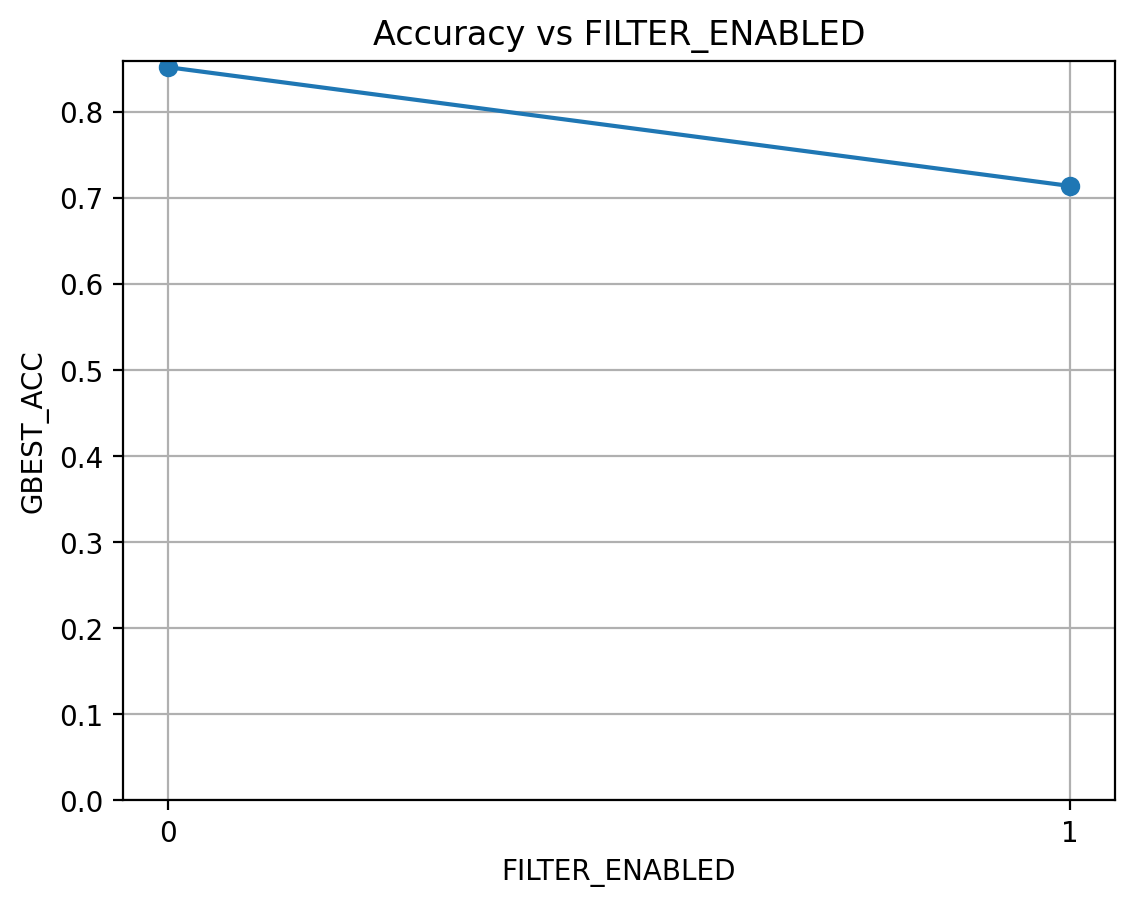
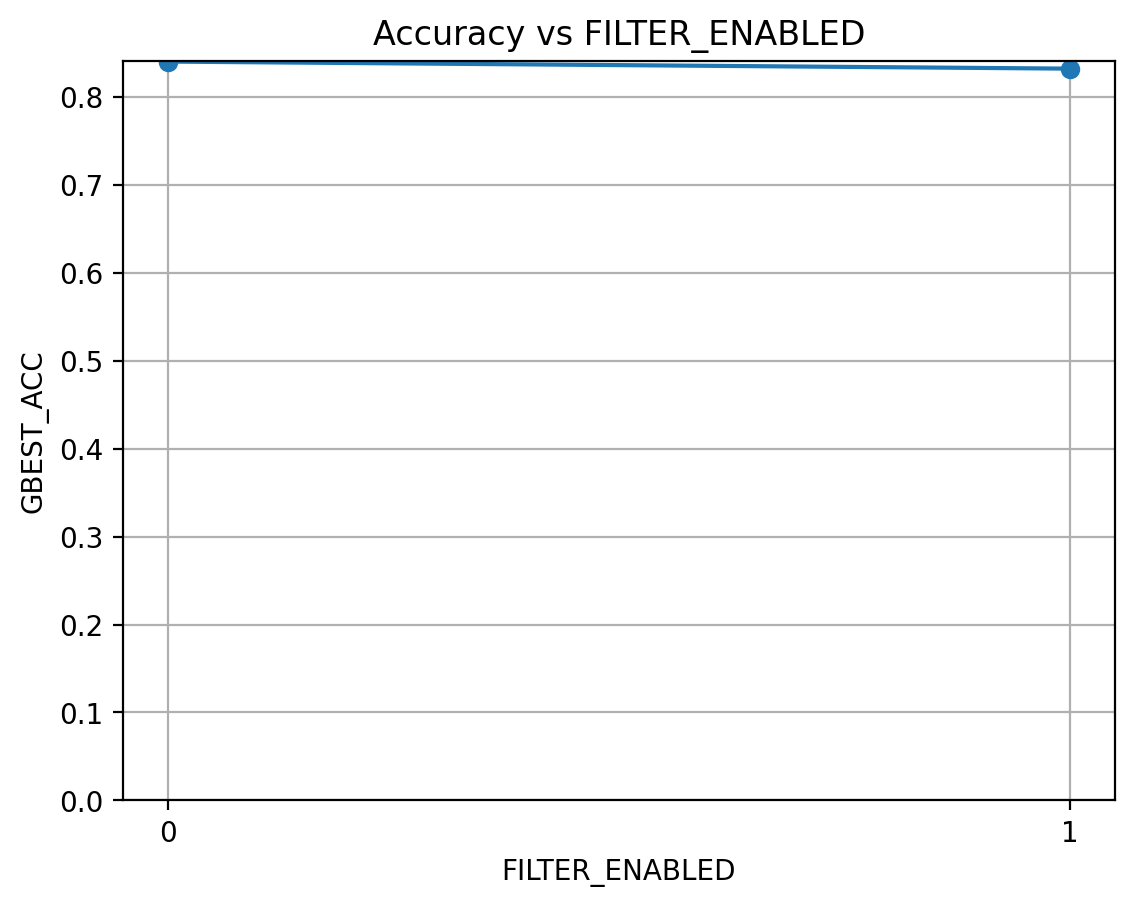
fdf

diff --git a/java/src/main/java/experimentation/Experimentation.java b/java/src/main/java/experimentation/Experimentation.java
@@ -35,7 +35,8 @@ public class Experimentation {
 
     // ========================================================================
     // private static List<Integer> filterEnableList = List.of(1, 0);
-    private static List<Integer> filterEnableList = List.of(1);
+    private static List<Integer> filterEnableList = List.of(0, 1);
+    // private static List<Integer> filterEnableList = List.of(1);
 
     // ========================================================================
     // private static List<Float> theshold_offset_list = List.of(0.00f, 0.1f, 0.2f);
@@ -100,6 +101,7 @@ public class Experimentation {
                 for (int n : workersList) {
                     
                     cfg.refreshRunId();
+                    CustomLogger.refreshAll();
                     cfg.N_WORKERS = n;
                     CoordinatorControl.getInstance().resetForNewRun(n);
 
@@ -163,7 +165,7 @@ public class Experimentation {
                     }
 
                     cfg.refreshFilterEnabled();
-
+                    CustomLogger.refreshAll();
                     CoordinatorControl.getInstance().resetForNewRun(cfg.N_WORKERS);
 
                     System.out.println("===============================================================================================");
@@ -218,6 +220,7 @@ public class Experimentation {
 
                     cfg.FILTER_ENABLED = true;
                     cfg.refreshRunId();
+                    CustomLogger.refreshAll();
                     cfg.refreshFilterEnabled();
 
                     cfg.LOSS_THRESHOLD_MIN = LOSS_THRESHOLD_MIN_ORIGINAL + theshold_offset;
@@ -276,6 +279,7 @@ public class Experimentation {
                 w.write("MONITORING_ITER,ACCURACY\n");
 
                 CoordinatorControl.getInstance().resetForNewRun(cfg.N_WORKERS);
+                CustomLogger.refreshAll();
 
                 System.out.println("===============================================================================================");
                 System.out.println("New RUN_ID: " + cfg.RUN_ID);
@@ -310,30 +314,6 @@ public class Experimentation {
             }
         } 
         
-    }
-
-    // =============================================================================================================
-
-    private static Path createUniqueCsvPath(String baseDirName, String baseFileName) throws IOException {
-
-        Path dir = Path.of(baseDirName);
-        Files.createDirectories(dir);
-
-        String ts = LocalDateTime.now().format(DateTimeFormatter.ofPattern("yyyyMMdd_HHmmss"));
-        int rnd = ThreadLocalRandom.current().nextInt(1000, 10000); // 4 digits
-
-        Path csv = dir.resolve(baseFileName + "_" + ts + "_" + rnd + ".csv");
-
-        int attempt = 0;
-        while (Files.exists(csv)) {
-            rnd = ThreadLocalRandom.current().nextInt(1000, 10000);
-            csv = dir.resolve(baseFileName + "_" + ts + "_" + rnd + ".csv");
-            
-            if (++attempt > 50) throw new IOException("Could not create unique CSV under " + baseDirName);
-        }
-
-        return csv;
-
     }
 
     // =============================================================================================================
@@ -396,27 +376,4 @@ public class Experimentation {
         }
     }
 
-    // =============================================================================================================
-
-    private static Path createUniqueResultsFiles(String baseDirName) throws IOException {
-
-        Files.createDirectories(Path.of(baseDirName));
-
-        String ts = LocalDateTime.now().format(DateTimeFormatter.ofPattern("yyyyMMdd_HHmmss"));
-        int rnd = ThreadLocalRandom.current().nextInt(1000, 10000); // 4 digits
-
-        Path runDir = Path.of(baseDirName, "run_" + ts + "_" + rnd);
-
-        int attempt = 0;
-
-        while (Files.exists(runDir)) {
-            rnd = ThreadLocalRandom.current().nextInt(1000, 10000);
-            runDir = Path.of(baseDirName, "run_" + ts + "_" + rnd);
-            if (++attempt > 50) throw new IOException("Could not create unique run directory under " + baseDirName);
-        }
-
-        Files.createDirectories(runDir);
-
-        return runDir;
-    }
 }

diff --git a/java/src/main/java/state/PsoUpdater.java b/java/src/main/java/state/PsoUpdater.java
@@ -44,7 +44,7 @@ public class PsoUpdater {
     private float c;  
 
     private final int NUM_SAMPLES = cfg.NUM_SAMPLES;
-    private final int MAX_PSO_UPDATES; // expected max updates (for clamping)
+    private final int MAX_UPDATES; // expected max updates (for clamping)
 
     private final int C1_MID_UPDATE;
 
@@ -121,15 +121,15 @@ public class PsoUpdater {
         this.logger = CustomLogger.getWorkerInstance(workerId);
 
         if(INDEPENDENT_WORKER_DATA_PROCESSING == true) {
-            MAX_PSO_UPDATES = NUM_SAMPLES / (3 * BATCH_SIZE);   // (* 3): This is necessary because othewise it will never converge. 
+            MAX_UPDATES = NUM_SAMPLES / (3 * BATCH_SIZE);   // (* 3): This is necessary because othewise it will never converge. 
                                                                 // We dont actually need to be exploring for that long
         } else {
-            MAX_PSO_UPDATES = NUM_SAMPLES / (N_WORKERS * BATCH_SIZE);
+            MAX_UPDATES = NUM_SAMPLES / (N_WORKERS * BATCH_SIZE);
         }
-        C1_MID_UPDATE = (int) Math.round(MAX_PSO_UPDATES / 1.6);
+        C1_MID_UPDATE = (int) Math.round(MAX_UPDATES / 1.6);
 
         if (logger.isEnabled(2)) logger.log("PsoUpdater: Number of weights (dimensionality): " + 
-                dimensionality + ", MAX_PSO_UPDATES: " + MAX_PSO_UPDATES + 
+                dimensionality + ", MAX_UPDATES: " + MAX_UPDATES + 
                 ", C1_MID_UPDATE: " + C1_MID_UPDATE + ", NUM_SAMPLES = " + NUM_SAMPLES);
 
         // this.rnd = new Random(1234L + workerId);    // for extra randomness in between workers
@@ -561,29 +561,29 @@ public class PsoUpdater {
 
     private void updateParametersSchedule() {
 
-        float updateIndex = Math.min(count_updates, MAX_PSO_UPDATES); // makes updateIndex not surpass MAX_PSO_UPDATES
+        float updateIndex = Math.min(count_updates, MAX_UPDATES); // makes updateIndex not surpass MAX_UPDATES
 
         // float sigmoidSteepness = (float)(2.0 * Math.log(9.0) / C1_DROP_WIDTH);
         // float retentionFactor = (float)(1.0 / (1.0 + Math.exp(sigmoidSteepness * (updateIndex - C1_MID_UPDATE))));
         // c1 = C1_END + (C1_START - C1_END) * retentionFactor;
             // this is exponential fall, right around the middle
 
-        float progressFactor = updateIndex / (float) MAX_PSO_UPDATES;   
+        float progressFactor = updateIndex / (float) MAX_UPDATES;   
         INERTIA_CURRENT = INERTIA_START + progressFactor * (INERTIA_END - INERTIA_START);  // t = [0, 1]
             // when t = 1, then INERTIA_CURRENT == INERTIA_END. This is linear fall of INERTIA
         // Mathematicall equivalent: 
         // INERTIA_CURRENT = INERTIA_END + progressFactor * (INERTIA_START - INERTIA_END);  
-        // float progressFactor = (MAX_PSO_UPDATES - updateIndex) / (float) MAX_PSO_UPDATES;      // T = MAX_PSO_UPDATES. 
+        // float progressFactor = (MAX_UPDATES - updateIndex) / (float) MAX_UPDATES;      // T = MAX_UPDATES. 
         // INERTIA_CURRENT = INERTIA_MIN + progressFactor * (INERTIA_MAX - INERTIA_MIN);  // from IEEE PSO survey
-        // if progressFactor = 0 (if updateIndex == MAX_PSO_UPDATES), then INERTIA_CURRENT = INERTIA_MIN
+        // if progressFactor = 0 (if updateIndex == MAX_UPDATES), then INERTIA_CURRENT = INERTIA_MIN
     }
 
     //================================================================================================
 
     private void updateC1C2Schedule() {
 
-        float updateIndex = Math.min(count_updates, MAX_PSO_UPDATES); // makes updateIndex not surpass MAX_PSO_UPDATES
-        float progressFactor = updateIndex / (float) MAX_PSO_UPDATES;  
+        float updateIndex = Math.min(count_updates, MAX_UPDATES); // makes updateIndex not surpass MAX_UPDATES
+        float progressFactor = updateIndex / (float) MAX_UPDATES;  
         
         c1 = (C1_END - C1_START) * progressFactor + C1_START;
         c2 = (C2_END - C2_START) * progressFactor + C2_START;

diff --git a/java/src/main/java/pso/WorkerTransformer.java b/java/src/main/java/pso/WorkerTransformer.java
@@ -122,7 +122,7 @@ public class WorkerTransformer implements Transformer<String, DataMessage, KeyVa
     private long openedDebounceWindow = 0;
     private boolean pBestUpdatePending = false;
 
-    private int MAX_BATCHES; // expected max updates (for clamping)
+    private int MAX_UPDATES; // expected max updates (for clamping)
     private float TAU; 
     private final float LOSS_THRESHOLD_MAX = cfg.LOSS_THRESHOLD_MAX;           // e.g. 0.10f (10%)
     private final float LOSS_THRESHOLD_MIN = cfg.LOSS_THRESHOLD_MIN;     // e.g. 0.005f (0.5%)
@@ -177,25 +177,23 @@ public class WorkerTransformer implements Transformer<String, DataMessage, KeyVa
         if(FILTER_ENABLED) {
         
             if(cfg.INDEPENDENT_WORKER_DATA_PROCESSING == true) {
-                MAX_BATCHES = cfg.NUM_SAMPLES / BATCH_SIZE;
+                MAX_UPDATES = cfg.NUM_SAMPLES / BATCH_SIZE;
                 
             } else {
 
-                MAX_BATCHES = cfg.NUM_SAMPLES / (cfg.N_WORKERS * BATCH_SIZE);
+                MAX_UPDATES = cfg.NUM_SAMPLES / (cfg.N_WORKERS * BATCH_SIZE);
             }
 
             double epsEnd = 1e-3;
             double diff = (double) LOSS_THRESHOLD_MAX - (double) LOSS_THRESHOLD_MIN;
-            double tau = (double) MAX_BATCHES / Math.log(diff / epsEnd);
-            logger.log("tau=" + tau + ", diff=" + diff);
+            double tau = (double) MAX_UPDATES / Math.log(diff / epsEnd);
+            logger.log("tau = " + tau + ", diff = " + diff);
 
             if (Double.isNaN(tau) || Double.isInfinite(tau) || tau < 1.0) tau = 1.0;    // so its valid
 
             this.TAU = (float) tau;
 
-            logger.log("MAX_BATCHES=" + MAX_BATCHES + ", TAU=" + TAU);
-
-
+            logger.log("MAX_UPDATES = " + MAX_UPDATES + ", TAU = " + TAU);
         }
     }
 
@@ -925,7 +923,7 @@ public class WorkerTransformer implements Transformer<String, DataMessage, KeyVa
 
     private void updateThreshold(int t) {     // threshold(t)=threshold_min + (threshold_max - threshold_min) * exp(-t / tau)
 
-        int tc = Math.min(t, MAX_BATCHES);
+        int tc = Math.min(t, MAX_UPDATES);
 
         double expTerm = Math.exp(-(double) tc / (double) TAU);     // -t/tau
         double threshold = (double) LOSS_THRESHOLD_MIN + ((double) LOSS_THRESHOLD_MAX - (double) LOSS_THRESHOLD_MIN) * expTerm;
@@ -940,14 +938,15 @@ public class WorkerTransformer implements Transformer<String, DataMessage, KeyVa
 
     private void updateMonitoringThreshold(int iter) {
         // iter: ws.countForwardPasses (global per worker)
-        int T = Math.max(1, MAX_BATCHES);
+        int T = Math.max(1, MAX_UPDATES);
         double p = Math.min(1.0, (double) iter / (double) T);
 
         double val = MONITORING_THRESHOLD_MAX + (MONITORING_THRESHOLD_MIN - MONITORING_THRESHOLD_MAX) * p;
+
+        monitoring_threshold = (int) Math.round(val);
         logger.log("monitoring_threshold: " + monitoring_threshold + ", MONITORING_THRESHOLD_MAX: " +
             MONITORING_THRESHOLD_MAX + ", MONITORING_THRESHOLD_MIN: " + MONITORING_THRESHOLD_MIN
         );
-        monitoring_threshold = (int) Math.round(val);
     }
 
     //=========================================================================================================================

diff --git a/java/src/main/java/utils/CustomLogger.java b/java/src/main/java/utils/CustomLogger.java
@@ -22,6 +22,8 @@ public class CustomLogger {
 
     private static boolean clearedLogsDir = false;
 
+    //=====================================================================================
+
     public CustomLogger(int workerId) {
 
         BufferedWriter w = null;
@@ -91,7 +93,24 @@ public class CustomLogger {
 
         return logger;
     }
+    //=====================================================================================\
 
+    public static void refreshAll() {
+        // Close existing writers
+        if (coordinatorInstance != null) {
+            coordinatorInstance.close();
+            coordinatorInstance = null;
+        }
+
+        for (CustomLogger l : workerInstances.values()) {
+            if (l != null) l.close();
+        }
+        workerInstances.clear();
+
+        clearLogsDirectory();
+
+        clearedLogsDir = true; 
+    }
     //=====================================================================================\
 
     private static void clearLogsDirectory() {
@@ -154,4 +173,15 @@ public class CustomLogger {
         }
     }
 
+    //=====================================================================================
+
+    public void close() {
+        if (!ENABLE_LOGGING || logWriter == null) return;
+        try {
+            logWriter.flush();
+            logWriter.close();
+        } catch (IOException e) {
+            e.printStackTrace();
+        }
+    }
 }

diff --git a/java/src/main/java/utils/Config.java b/java/src/main/java/utils/Config.java
@@ -399,6 +399,11 @@ public class Config {
             LOSS_THRESHOLD_MAX = Float.parseFloat(getenv(dotenv, "LOSS_THRESHOLD_MAX", "0.1"));
             LOSS_THRESHOLD_MIN = Float.parseFloat(getenv(dotenv, "LOSS_THRESHOLD_MIN", "0.005"));
         }
+
+        System.out.println("AAAAAAAAAAAAAAAAAAAAAAAAAAAAAAAAAAAAAAAAA");
+        System.out.println("MONITORING_THRESHOLD_MAX: " + MONITORING_THRESHOLD_MAX);
+        System.out.println("MONITORING_THRESHOLD_MIN: " + MONITORING_THRESHOLD_MIN);
+        System.out.println("AAAAAAAAAAAAAAAAAAAAAAAAAAAAAAAAAAAAAAAAA");
     }
 
     // ==================================================================================================================================
